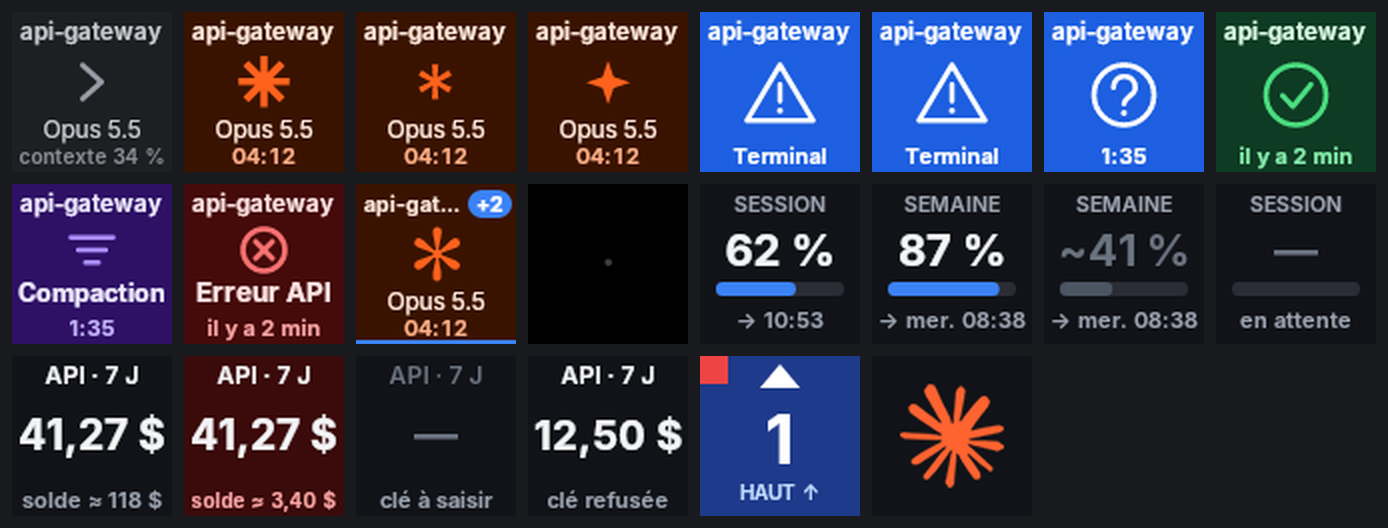
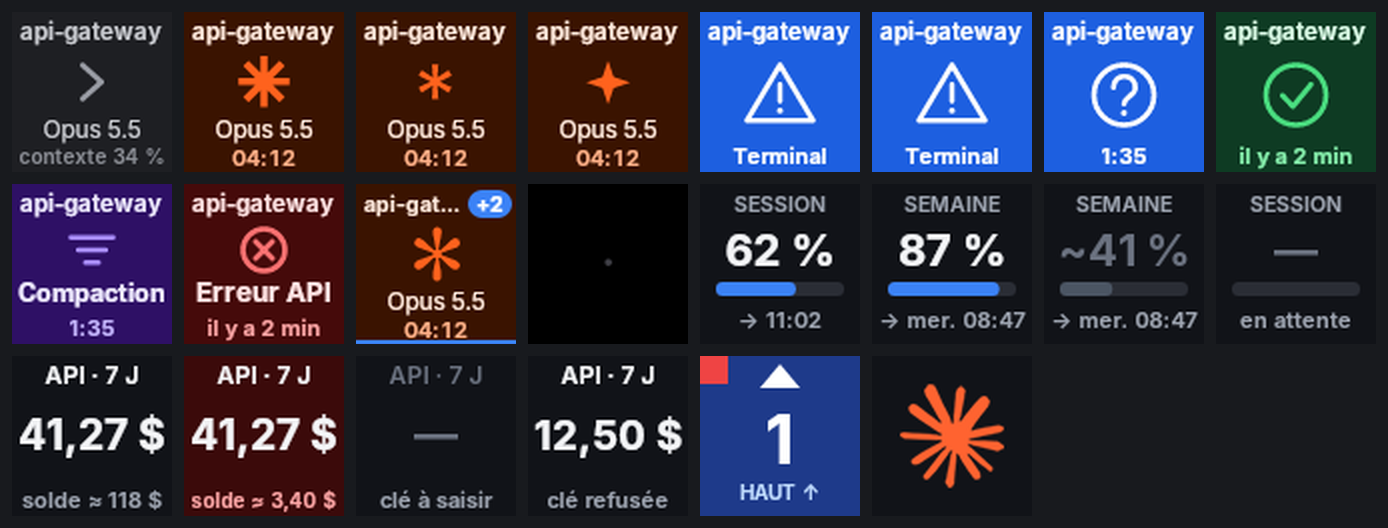
Chrono descendu de 1 px (v0.4.6)
Claude-Session: https://claude.ai/code/session_01Fx8ktu9DfaPpGyN7FCRNbi

diff --git a/src/ClaudeDeck.Core/Rendering/KeyRenderer.cs b/src/ClaudeDeck.Core/Rendering/KeyRenderer.cs
@@ -105,7 +105,7 @@ public sealed class KeyRenderer : IDisposable
         // Ligne du bas (chrono) au plus près du bord inférieur.
         if (v.Sub is { } sub)
         {
-            if (v.SubMono) DrawTabular(c, sub, _semi, 11f, 40f, 76f, v.Muted);
+            if (v.SubMono) DrawTabular(c, sub, _semi, 11f, 40f, 77f, v.Muted); // 1 px plus bas que les autres lignes du bas
             else DrawText(c, sub, _semi, 11f, 8f, 3f, 77f, 76f, v.Muted, SKTextAlign.Center);
         }
     }
